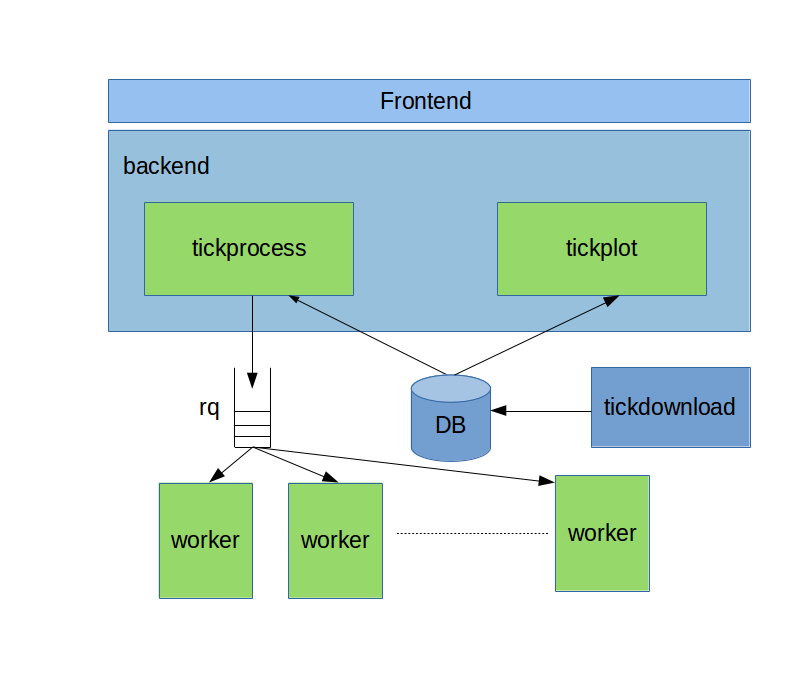
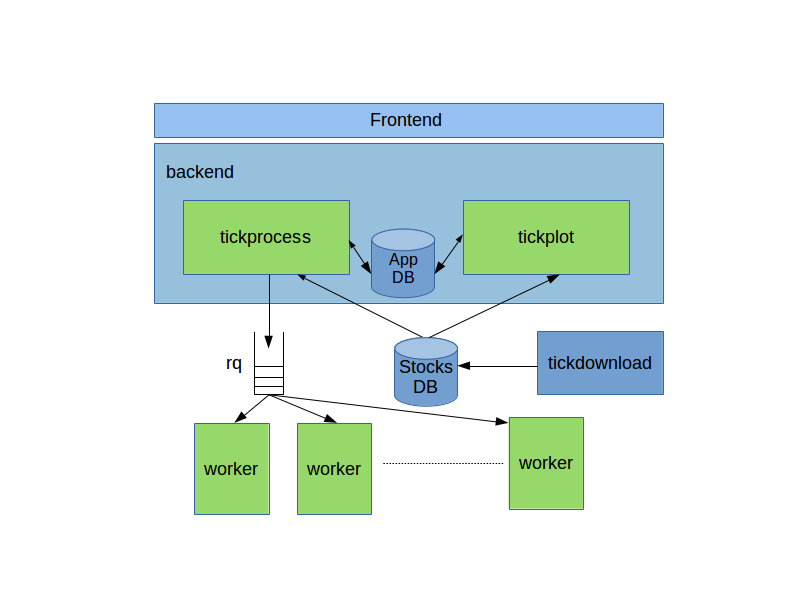
couple of small fixes
fixed a rendering error that was rendering all code weirdly (this
happened due to trying to use markdown.extra)

updated tickerplot-architecture image

Changed region(s): [[0.125, 0.09, 0.9375, 0.9]]

diff --git a/pelicanconf.py b/pelicanconf.py
@@ -39,9 +39,5 @@ PYGMENTS_STYLE = 'monokai'
 STATIC_PATHS = ['images']
 
 
-MARKDOWN = {'extension_configs':
-                { 'markdown.extensions.extra': {},
-                }
-           }
 # Uncomment following line if you want document-relative URLs when developing
 #RELATIVE_URLS = True

diff --git a/content/2017/fast-vector-operations.md b/content/2017/fast-vector-operations.md
@@ -79,6 +79,7 @@ ps.print_callers()
 now0 = time.time()
 
 ```
+
 and for the 'List Comprehension' method -
 
 ```python
